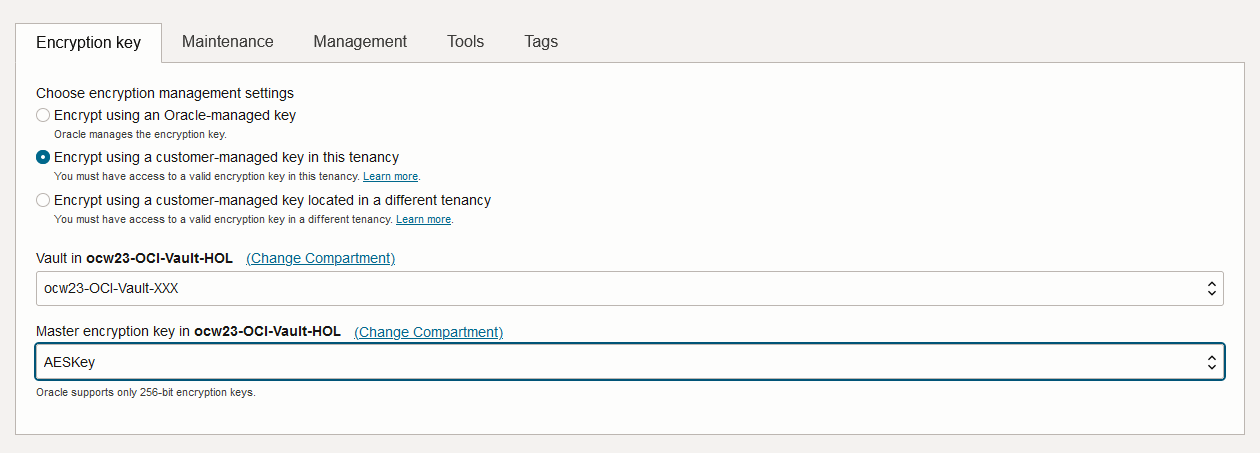
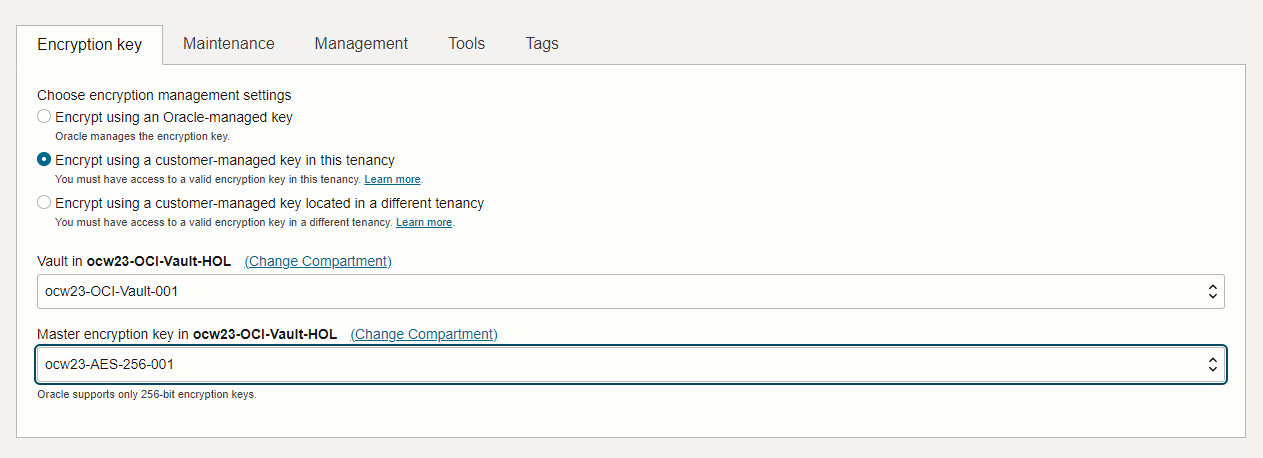
Updates
Updates

diff --git a/oci-kms/encrypt-resources/encrypt-resources.md b/oci-kms/encrypt-resources/encrypt-resources.md
@@ -1,4 +1,4 @@
-# Lab 4 - Configure customer managed encryption for OCI resources
+# Lab 3 - Configure customer managed encryption for OCI resources
 
 ## Introduction
 
@@ -29,7 +29,7 @@ This lab assumes you have:
 
 *This is the "fold" - below items are collapsed by default*
 
-## Task 1: Create OCI resources with your own encryption keys
+## Task 1: Create bucket with your own encryption keys
 
 1. Let's first create a bucket in OCI Object Storage. To do that, log in to OCI console and navigate through the main hamburger menu to *"Storage > Object Storage > Buckets"*.
     
@@ -40,21 +40,64 @@ This lab assumes you have:
     ![Create bucket](./images/create-bucket.png "Create bucket")
 
 
-3. Name it by following same name convention as before. Select the option Encrypt using customer-managed keys. Once you select that option, new ields to be filled will appear. Select the previously created Vault and the encryption keys that you stored in this Vault. Then click Create.
+3. Name it by following same name convention: ocw23-OCI-bucket-001. Select the option Encrypt using customer-managed keys. Once you select that option, new fields to be filled will appear. Select the previously created Vault and the encryption keys that you stored in this Vault. Then click Create.
     
+    ![Bucket info](./images/bucket-info.png "Bucket info")
 
-4. Now you have already created your bucket with your own ecnryption keys. Let's create now the Autonomous Database.
+4. Now you have already created your bucket with your own ecnryption keys:
+
+  ![New Bucket](./images/new-bucket.png "New Bucket")
+
+## Task 2: Upload data into the bucket and check visibility
+
+You will upload a file that will be provided to you into the bucket you recently created in Object Storage.
+
+1. Donwload the file [ocw23-sample-file.csv](https://objectstorage.eu-frankfurt-1.oraclecloud.com/p/4B-I7ermCb2D5OfuLn9XyvSCaEI9knzz35jIcQEnkinsuFOfg94HtJnuimhWjISj/n/frnj6sfkc1ep/b/ocw23-resources/o/ocw23-sample-file.csv)
+
+2. Click in your recently created bucket and click **Upload** in the section **Objects**:
+
+  ![Upload object](./images/upload-object.png "Upload object")
+
+3. Leave the Object prefix name blank and select the file you downloaded. Click **Upload**:
+
+   ![Upload file](./images/upload-file.png "Upload file")
+
+4. Close the window, and now you can see your file uploaded into your bucket:
+
+  ![Object](./images/object.png "Object")
+
+5. Now you will create a pre-authenticated request to be able to access the file in a specified time. You could share as well this URL with others. To do that, click to **Pre-Authenticated Requests** in the menu Resources in the left:
+
+  ![Pre-Authenticated Requests](./images/par.png "Pre-Authenticated Requests")
+
+6. Click **Create Pre-Authenticated Request**:
+
+  ![Create Pre-Authenticated Request](./images/create-par.png "Create Pre-Authenticated Request")
+
+7. Fill the parameters as follow and click **Create Pre-Authenticated Request**:
+
+  ![Add Pre-Authenticated Request info](./images/par-info.png "Add Pre-Authenticated Request info")
+
+8. A window will prompt with the URL of the pre-authenticated request. Copy this URL and save it locally. Click **Close**.
+
+  ![Pre-Authenticated Request URL](./images/par-created.png "Pre-Authenticated Request URL")
+
+9. To check you have visibility into the file in your bucket, open another browser and go to the URL you copied previoulsy. The file should be automatically downloaded. You have already permissions to donwload and see the file as you have access to your encryption keys created in OCI from CTM.
+
+## Task 3: Create an Autonomoous Database with your own encryption keys
+
+Let's create now the Autonomous Database.
 In order to use customer-managed encryption for Autonomous Database, it is needed to create permissions to allow OCI Vault service to communicate with your Autonomoous Database. To do that, you need first to create a dynamic group and policies to provide access to the vault and keys for Autonomous Database instance. 
 
-5. Create a dynamic group to make the master encryption key accessible to the Autonomous Database instance: in the Oracle Cloud Infrastructure console click *"Identity & Security"* and under *"Identity"*, click *"Dynamic Groups"*. 
+1. Create a dynamic group to make the master encryption key accessible to the Autonomous Database instance: in the Oracle Cloud Infrastructure console click *"Identity & Security"* and under *"Identity"*, click *"Dynamic Groups"*. 
 
  ![Dynamic Groups](./images/dynamic-groups.png "Dynamic Groups")
 
-6. Click Create Dynamic Group
+2. Click Create Dynamic Group
 
   ![Create dynamic group](./images/create-dynamic-group.png "Create dynamic group")
 
-7. Enter a name and a description for the Dynamic Group. Regarding the rule, when you are creating the dynamic group before you provision or clone an Autonomous Database instance, the OCID for the new database is not yet available. For this case, create a dynamic group that specifies the resources in a given compartment by writting the following rule:
+3. Enter a name and a description for the Dynamic Group. Regarding the rule, when you are creating the dynamic group before you provision or clone an Autonomous Database instance, the OCID for the new database is not yet available. For this case, create a dynamic group that specifies the resources in a given compartment by writting the following rule:
 
     ```
     resource.compartment.id = '<your_Compartment_OCID>'
@@ -69,12 +112,12 @@ In order to use customer-managed encryption for Autonomous Database, it is neede
 
     ![Rule for dynamic group](./images/rule-dynamic-group.png "Rule for dynamic group")
 
-8. Write policy statements for the dynamic group to enable access to OCI resources (vaults and keys). To do that, in the OCI console click *"Identity & Security"* and under *"Identity"*, click *"Policies"*:
+4. Write policy statements for the dynamic group to enable access to OCI resources (vaults and keys). To do that, in the OCI console click *"Identity & Security"* and under *"Identity"*, click *"Policies"*:
 
   ![Security policies](./images/policies.png "Security policies")
 
 
-9. To write policies for a dynamic group, click Create Policy, and enter a Name and a Description. Use the Policy Builder to create a policy for vault and keys in the local tenancy.
+5. To write policies for a dynamic group, click Create Policy, and enter a Name and a Description. Use the Policy Builder to create a policy for vault and keys in the local tenancy.
 
   ```
   Allow dynamic-group ocw23-OCI-Vault-XXX to use vaults in compartment ocw23-OCI-Vault-HOL
@@ -84,22 +127,22 @@ In order to use customer-managed encryption for Autonomous Database, it is neede
 
    ![Create policy](./images/create-policy.png "Create policy")
 
-10. Click Create to save the policy.
+6. Click Create to save the policy.
 
-11. Now you can create the Autonomous Database. Navigate through the main hamburger menu to: *"Oracle Database > Autonomous Database"*.
+7. Now you can create the Autonomous Database. Navigate through the main hamburger menu to: *"Oracle Database > Autonomous Database"*.
 
     ![Autonomous Database](./images/autonomous-database.png "Autonomous Database")
 
 
-6.	Click Create Autonomous Database:
+8.	Click Create Autonomous Database:
 
     ![Create Autonomous Database](./images/create-autonomous-database.png "Create Autonomous Database")
 
 
-7.	Fill the parameters as follows:
+9.	Fill the parameters as follows:
     * Compartment: ocw23-OCI-Vault-HOL
-    *	Display Name: ocw23XXX
-    *	Database Name: ocw23XXX
+    *	Display Name: ocw23-OCI-adb-001
+    *	Database Name: ocw23OCIadb001
     *	Workload type: Transaction Processing
     *	Deployment type: Shared Infrastructure
     *	Configure the database: &lt;Leave it as default&gt; 
@@ -113,11 +156,47 @@ In order to use customer-managed encryption for Autonomous Database, it is neede
     ![Encryption in Autonomous Database](./images/adb-encryption.png "Encryption in Autonomous Database")
 
 
-8. Click Create Autonomous Database. Then wait until the database status is set to green and ACTIVE.
+10. Click Create Autonomous Database. Then wait until the database status is set to green and ACTIVE.
 
-  ![Click Create Autonomous Database](./images/click-create-autonomous-db.png "Click Create Autonomous Database")
+  ![Autonomous Database active](./images/adb-created.png "Autonomous Database active")
 
+## Task 3: Upload data into the Autonomous Database and check visibility
 
+In this task you will load the previous csv file you loaded into your bucket, into your previously created Autonomous Database.
+
+1. Navigate to your Autonomous Database page in OCI console and go to the Database Actions Launchpad:
+
+  ![Database Actions](./images/db-actions.png "Database Actions")
+
+2. Once there, click to SQL under Development:
+
+  ![SQL Development](./images/sql.png "SQL Development")
+
+3. Web SQL Development UI is open and now you can load data into your database by clicking to **Data Load** on the top corner right:
+
+  ![Click Data Load](./images/data-load.png "Click Data Load")
+
+4. Drag and drop the file into it and click the button **Run all**:
+
+  ![File loading](./images/drag-and-drop.png "File loading")
+
+5. When the upload is complete, you will be able to see the green icon next to the filw:
+
+   ![File loaded](./images/upload-done.png "File loaded")
+
+6. Click **CLose**. Refresh the browser and you will be able to see the new created table:
+
+  ![Table created](./images/new-table.png "Table created")
+
+7. In order to see the data into the table, right click to the table and click **Open**:
+
+  ![Open table](./images/see-data.png "Open table")
+
+8. In the new window, click the tab Data:
+
+  ![See data](./images/data.png "See data")
+
+This completes the lab on loading CSV files from your local computer.
 
 ## Learn More
 

diff --git a/oci-kms/simulation/simulation.md b/oci-kms/simulation/simulation.md
@@ -1,4 +1,4 @@
-# Lab 5 - Emergency simulation test: blocking data access
+# Lab 4 - Emergency simulation test: blocking data access
 
 ## Introduction
 
@@ -27,43 +27,25 @@ This lab assumes you have:
 * All previous labs successfully completed
 
 
-## Task 1: Load sample data into your Autonomous Database 
+## Task 1: Disable keys in CTM
 
-In this task you will load data into your previously created Autonomous Database and also in your bucket.
+1. Log in to your CTM account and navigate to Cloud Key Manager:
 
-1. Right-click on the link below and click **Save Link As…** to download the file to your computer.
+2. Go to Cloud Keys section where your ecnryption keys will be shown:
 
-	TODO: link
+3. Click on the three points on the right and select **Disable**:
 
-2. Navigate to your Autonomous Database page in OCI console and go to the Data Load main page by going to the Database Actions Launchpad and in the **Data Studio** section, click **DATA LOAD.**
+4. Click **Refresh All** and wait that keys are in Disabled status:
 
-  ![Database Actions](./images/database-actions.png "Database Actions")
 
-  ![Data Load](./images/data-load.png "Data Load")
+## Task 2: Check data visibility into your bucket
 
-3. Leave the default selections, **LOAD DATA** and **LOCAL FILE**, and click Next.
 
-  ![Load File](./images/load-file.png "Load File")
+## Task 3: Check data visibility into your Autonomous Database
 
-4. The Local Files page enables you to drag and drop files to upload, or you can select files. Drag the customer_segment.csv file from the directory where you downloaded onto the Drag and Drop target. Or select the files using the Select Files pop-up dialog.
 
-  ![File loaded](./images/file-loaded.png "File loaded")
 
-5. When the upload is complete, you simply click the blue **Start** button and click **Run** to run the data load job.
 
-6. When the load job finishes, a green check mark appears for each table. Click **Catalog** in the menu on the left.
-
-  ![Table created](./images/table-created.png "Table created")
-
-7. The Catalog shows the CUSTOMER_SEGMENT table has been successfully created. You can click the table name to see the data.
-
-  ![Table](./images/customer-table.png "Table")
-
-This completes the lab on loading CSV files from your local computer.
-
-## Task 2: Load sample data into your bucket
-
-## Task 3: Disable connection to Thales CipherTrust Manager
  
 ## Learn More
 

diff --git a/oci-kms/introduction/introduction.md b/oci-kms/introduction/introduction.md
@@ -18,16 +18,14 @@ Estimated Workshop Time: -- hours -- minutes
 ### Objectives
 
 In this workshop, you will learn how to:
-* Set up HSM and Key Management in Thales
-* Connect to OCI and create your own Vault in OCI Vault
 * Add a connection between your Thales CipherTrust Manager and OCI
-* Create the keys
+* Create Oracle keys in Thales 
 
 Then you will have 2 options: “BYOK” (Lab 3a) or “HYOK” (Lab 3b). 
 
 * BYOK means “Bring Your Own Keys”. It is the concept of bringing into Oracle Cloud Infrastructure (OCI) Encryption Keys which have been created outside of OCI. This might be mandatory to comply with certain regulations mandating that the encryption Key creation ceremony is done outside of the Cloud. 
 BYOK is compatible with any key material you are creating which is compatible with OCI Vault supported key types. 
-For a complete list of OCI Vault supported Key Types, please refer to the following link:[Supported Key Types and Key Sizes](https://docs.oracle.com/en-us/iaas/Content/KeyManagement/Tasks/importingkeys.htm)
+For a complete list of OCI Vault supported Key Types, please refer to the following link: [Supported Key Types and Key Sizes](https://docs.oracle.com/en-us/iaas/Content/KeyManagement/Tasks/importingkeys.htm)
 
 * HYOK means “Hold Your Own Key” and is officially called in OCI Vault “External Key management”. It means that your Master Encryption Key (MEK) never leaves your  own HSM located outside of OCI, whether it is in your own Data Center or hosted by a third party. 
 As of today, HYOK is only compatible with Thales CipherTrust Manager. Hence the reason why during this lab you will use THALES CipherTrust Key Manager.

diff --git a/oci-kms/create-connection/create-connection.md b/oci-kms/create-connection/create-connection.md
@@ -1,4 +1,4 @@
-# Lab 2 - Link creation between OCI and your HSM and Master Encryption Key creation
+# Lab 1 - Link creation between OCI and your HSM and Master Encryption Key creation
 
 ## Introduction
 
@@ -148,26 +148,6 @@ CTM is a hardened appliance (Ubuntu) for optimum security and comprises/integrat
 11. Your connection state should be **Ready.** 
 
     ![Connection ready](images/tested-connection.png "Connection ready")
-
-
-## Task 3: Add Oracle Vault to CTM
-
-1. Log into the CipherTrust Manager Web UI.
-2. Click the Cloud Key Manager application.
-3. On the left pane, click Containers and Oracle Vaults. 
-4. Click Add Existing Vault.
-5. Under Add Existing Key Vault configuration, add the following parameters:
-    * **Oracle connection** - select the connection that was previously created.
-    * **Compartment** – Select the compartment created with Oracle.
-    * **Region** - Select your relevant region from the dropdown.
-    * **Vault** – Select the vault which we created earlier with Oracle.
-
-    > Note: Bucket name and Bucket Namespace are required for creating key backups of HSM protected 
-keys for Virtual Private Vaults. Key Backup functionality while syncing vaults will cease without these 
-parameters.
-
-6. Click next and add the Vault.
-
 
 
 

diff --git a/oci-kms/hyok/hyok.md b/oci-kms/hyok/hyok.md
@@ -1,4 +1,4 @@
-# Lab 3b - Hold Your Own Key (HYOK): Configure External Key Management between OCI and your HSM
+# Lab 2b - Hold Your Own Key (HYOK): Configure External Key Management between OCI and your HSM
 
 
 ## Introduction

diff --git a/oci-kms/byok-to-oci/byok-to-oci.md b/oci-kms/byok-to-oci/byok-to-oci.md
@@ -1,4 +1,4 @@
-# Lab 3a - Bring Your Own Key to Oracle Cloud Infrastructure (BYOK to OCI)
+# Lab 2a - Bring Your Own Key to Oracle Cloud Infrastructure (BYOK to OCI)
 
 ## Introduction
 
